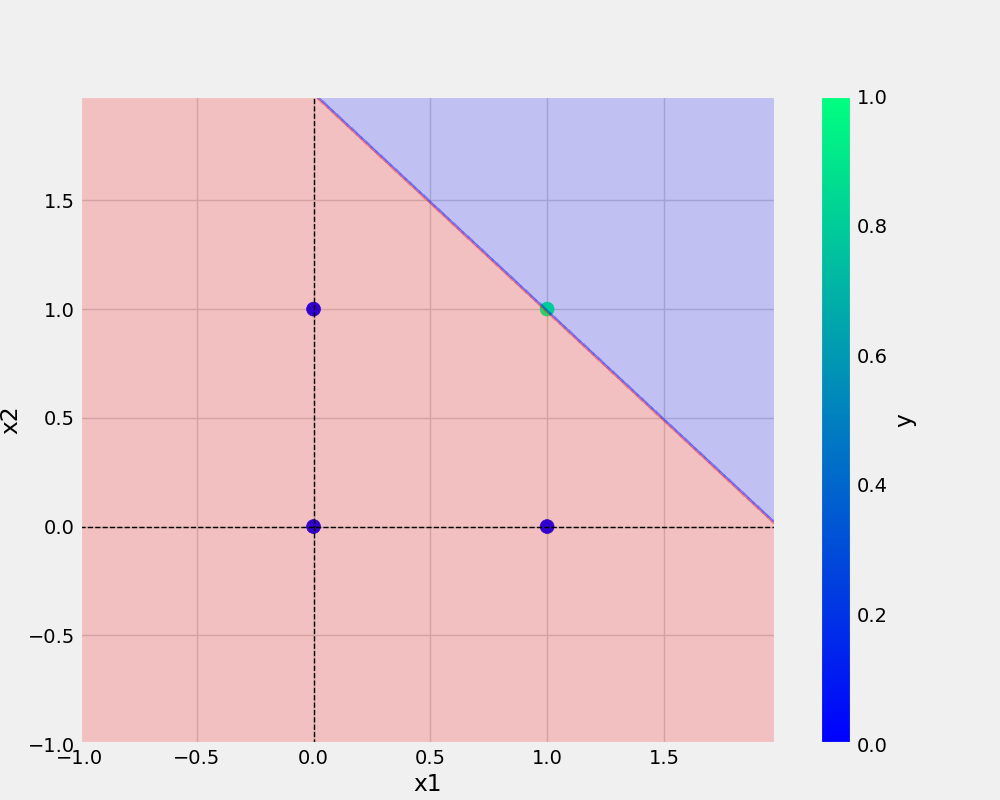
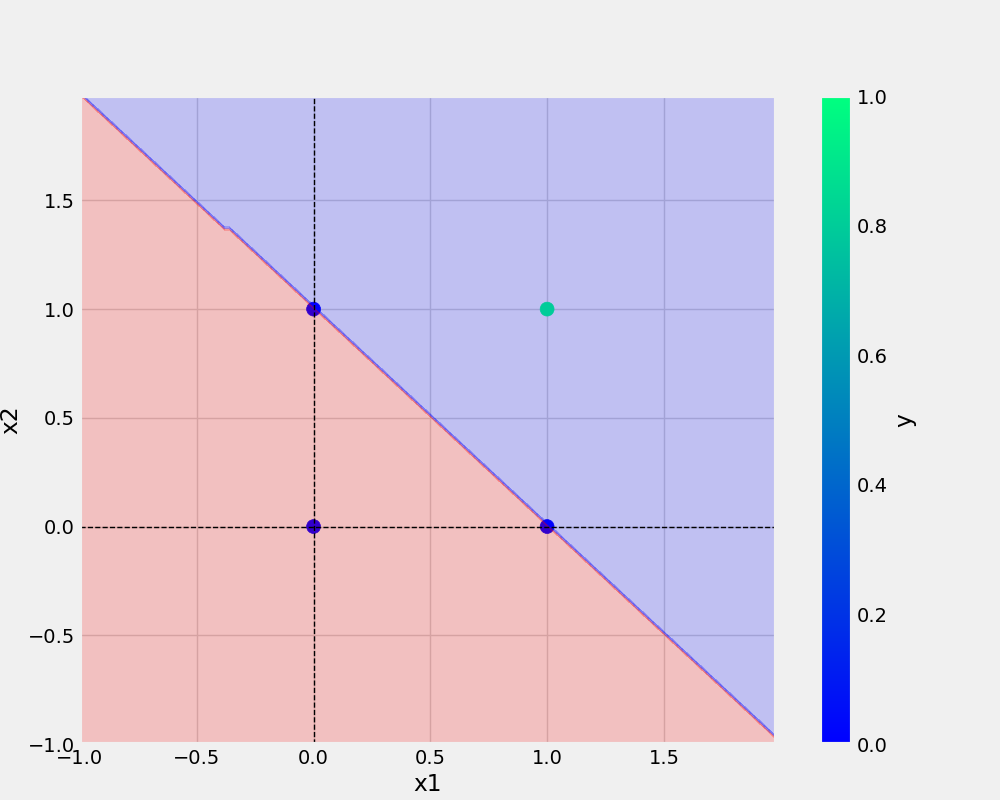
organised main function in and.py and or.py

Changed region(s): [[0.093, 0.125, 0.775, 0.9375]]

diff --git a/and.py b/and.py
@@ -1,25 +1,33 @@
 
+from fileinput import filename
 import pandas as pd
 import numpy as np
 from utils.model import Perceptron
 from utils.all_utils import prepare_data, save_model, save_plot
 
-AND = {
-      'x1': [0,0,1,1],
-      'x2': [0,1,0,1],
-      'y' : [0,0,0,1]
-}
+def main(data, eta, epochs, filename, plotname):
+      
 
-df = pd.DataFrame(AND)
-print(f'df = {df}')
-X, y = prepare_data(df)
+      df = pd.DataFrame(data)
+      print(f'df = {df}')
+      X, y = prepare_data(df)
 
-ETA = 0.3
-EPOCHS = 10
+      
+      model_AND = Perceptron(eta=eta, epochs=epochs)
+      model_AND.fit(X,y)
+      _  = model_AND.total_loss()
 
-model_AND = Perceptron(eta=ETA, epochs=EPOCHS)
-model_AND.fit(X,y)
-_  = model_AND.total_loss()
+      save_model(model_AND, file_name=filename)
+      save_plot(df, plotname, model_AND)
 
-save_model(model_AND, file_name='and.model')
-save_plot(df, 'and.png', model_AND)
+
+if __name__ == '__main__':
+      AND = {
+            'x1': [0,0,1,1],
+            'x2': [0,1,0,1],
+            'y' : [0,0,0,1]
+      }
+      ETA = 0.3
+      EPOCHS = 10
+ 
+      main(data=AND, eta = ETA, epochs = EPOCHS, filename='and.model', plotname='and.png' )

diff --git a/or.py b/or.py
@@ -1,0 +1,33 @@
+
+from fileinput import filename
+import pandas as pd
+import numpy as np
+from utils.model import Perceptron
+from utils.all_utils import prepare_data, save_model, save_plot
+
+def main(data, eta, epochs, filename, plotname):
+      
+
+      df = pd.DataFrame(data)
+      print(f'df = {df}')
+      X, y = prepare_data(df)
+
+      
+      model_AND = Perceptron(eta=eta, epochs=epochs)
+      model_AND.fit(X,y)
+      _  = model_AND.total_loss()
+
+      save_model(model_AND, file_name=filename)
+      save_plot(df, plotname, model_AND)
+
+
+if __name__ == '__main__':
+      AND = {
+            'x1': [0,0,1,1],
+            'x2': [0,1,0,1],
+            'y' : [1,1,1,0]
+      }
+      ETA = 0.3
+      EPOCHS = 10
+ 
+      main(data=AND, eta = ETA, epochs = EPOCHS, filename='or.model', plotname='or.png' )
